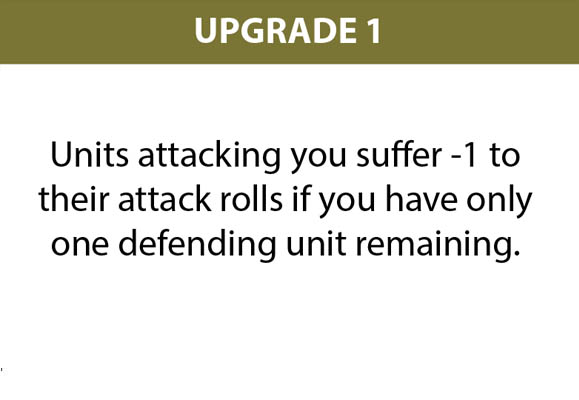
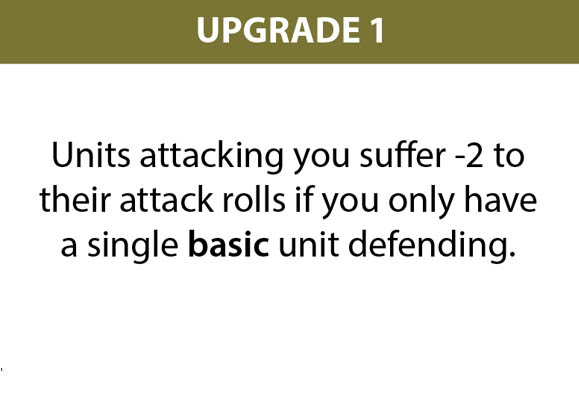
Survivalists: tweak upgrades

diff --git a/server/classes/factions/Survivalists.js b/server/classes/factions/Survivalists.js
@@ -123,7 +123,13 @@ class Survivalists extends Faction {
 
     processUpgrade( upgrade ){
         this.data.units.forEach(unit => {
-           unit.soloDefenseBonus = unit.baseSoloDefenseBonus ? (unit.baseSoloDefenseBonus + upgrade) : upgrade;
+            if(unit.basic){
+                unit.soloDefenseBonus = 2;
+            }
+
+            if( upgrade === 2 && unit.baseSoloDefenseBonus ){
+                unit.soloDefenseBonus = unit.baseSoloDefenseBonus + 2;
+            }
         });
     }
 
